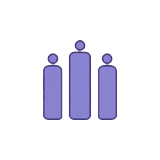
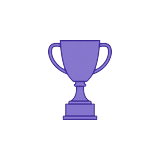
feat(art): ui_icon_rank 改奖杯语义，收口 80px 目检 (WXG-T-491)
T-488 第 3 项目检结论：旧件在 80px 下读作「三个人并排站」，不读作排行榜；

且实物形态与其台账记述「领奖台三台阶」不符。用户 2026-10-29 裁 A：改奖杯。

生成：云 qwen-image-3.0 seed101 一张（0.18 元；本地 ComfyUI 探活拒绝）。

切图沿用 T-488 口径：四角 floodfill thresh24 取外部背景 ∪ 近白补封闭孔（杯把内圈）

→ alpha MinFilter(3) 内退 1px 去白边 → bbox 裁 → 长边归一 50% → 落 160² → LANCZOS。

读数（160² @2x）：占宽 40% / 占高 50% / 不透明 2678 / 主色 #8070C0 + 描边 #5040A0

（旧件 46% / 50% / 4127）。奖杯天然窄高 ⇒ 占宽为全族最窄。

真渲染目检（?hud=off + headless Chrome DPR2）：6x 放大无白边残留，

四枚真尺寸并排 齿轮(灰)/奖杯(紫)/信封(蓝)/喇叭(橙) 语义互不混淆。

效果图两张改为真渲染取证（原 mock 记的是旧形态，留着会误导）。

.meta 由编辑器 reimport 自动重写（trimX 48 / trimY 40 / 64x80），非手编。

验证：check:cocos-mask OK（字节相同、已进包）；check:size beads 3430.4 KB。

单测 1414 通过 / 1 红（arc-ticket-gate S-4）——归因他人 7a4ecda9 的开机定位改动，

非本笔（本笔零 src）。

Changed region(s): [[0.25, 0.25, 0.75, 0.75]]

diff --git a/production/TASKS.md b/production/TASKS.md
@@ -2,7 +2,7 @@
 
 > **格式（WXG-T-064 起）：标题制 + 详情分片。** 本表**只留标题**（名称列 ≤ 60 字符，由 `pnpm run check:tasks` 机械强制）；任务正文在 `production/TASKS-DETAIL.md` 的 `## WXG-T-0NN` 小节。**读取协议**：领号/看状态只读本表（≈ 2.2k tok）；要某任务详情时，从 `ctx/index.json` 取该小节的 `startLine`/`endLine`，`read_file(path, offset, limit)` **只读那一节**（中位 ≈ 290 tok），**不要整读详情文件**。归档时**行与小节成对搬走**。
 > 单号递增不回收。任何会话（WorkBuddy/Cursor/Qoder/CodeBuddy）开工前**先读本文件领号**，完成后回填状态——根治跨 IDE 撞号（教训：2026-09-12 CodeBuddy 独立会话撞用 T-013/T-014）。
-> **领号（机械校准锚，供 `pnpm run tasks:archive` 校准用）**：当前已分配至 **WXG-T-490**，下一可用号 **WXG-T-491**（**沿革已外移**：每个已分配号的批次摘要、冲突披露与 ADR 编号表 → `production/archive/TASKS-ledger-notes.md`，2026-10-28 由 WXG-T-482 原文照搬迁出；动机 = 该段占台账 39,909 tok 而 `tasks:archive` 只搬表行、对它零效力 ⇒ 台账撞 80k 门。⛔ 日常领号只认本行数值，**不要**去读那份沿革）。
+> **领号（机械校准锚，供 `pnpm run tasks:archive` 校准用）**：当前已分配至 **WXG-T-491**，下一可用号 **WXG-T-492**（**沿革已外移**：每个已分配号的批次摘要、冲突披露与 ADR 编号表 → `production/archive/TASKS-ledger-notes.md`，2026-10-28 由 WXG-T-482 原文照搬迁出；动机 = 该段占台账 39,909 tok 而 `tasks:archive` 只搬表行、对它零效力 ⇒ 台账撞 80k 门。⛔ 日常领号只认本行数值，**不要**去读那份沿革）。
 > 勘误（2026-09-13）：本注此前长期停在「已分配至 T-032」而表内已排到 T-035，曾致撞号（教训见 memory 记录）；WXG-T-040 归档落地后改为——**领号认本注（下一可用号），本注由 `tasks:archive` 校准**为「主表 ∪ 归档全局最大号 + 1」（归档会把老行移出主表，只看主表最大号必重号）；手工领号后请顺手核对本注（可运行 `pnpm run tasks:archive` 校准，0 行时不落盘）。
 > **用过号未自登主表清单**（K-137 只披露不代填）：222 / 257 / 280·281 / 282 / 283 / 285 / 286·287 / 289 （291 已由 WXG-T-292 代收口自登；203–207 属区间披露）——逐条正文与补账口径见 `production/archive/TASKS-ledger-notes.md` §A 末段。⛔ 仍不代填，待各会话自登。
 
@@ -57,6 +57,7 @@
 | WXG-T-488 | 生成 ui_icon_rank 图标资源与效果图（云 qwen-image-3.0） | 主理人(CodeBuddy)·治理轨 | ✅ **完成（2026-10-28）**（解 T-487 的 P1「好友榜钮无图标」。云 `qwen-image-3.0` × 2 seed：v1 seed101 领奖台三台阶（中高左右递减、圆点嵌顶面作名次位）定稿，v2 seed202 纯平面三竖条因左右等高+圆点分离「像三人」弃用。切图口径 = 白底 floodfill thresh24 → `MinFilter(3)` 边缘内退 1px 去白边（⛔ 不用 MaxFilter，会把白像素拉进 alpha）→ bbox 裁 → **长边归一 50%** → 落 160×160。成品占宽 46%/占高 50%、不透明 4127 px（对照 mail 3810 / sound 3098 / settings 2129），紫色 `#7C6FD9` + 深紫描边，与既有三枚语义色策略一致。产出：`final/assets/menu/ui_icon_rank.png` + `cocos/assets/textures/ui_icon_rank.png` + 效果图 ×2 + 1024 源图。**成本 0.36 元**（2 × 0.18）。**收口（2026-10-29）**：`.meta` 由编辑器导入生成（uuid `b01fa1bb-…`，L1 合规），`MENU_TEXTURES.iconRank` + `drawTopbar` 80² blit + 两宿主表（carrier `BITMAP_ASSETS` / harness `MENU_FILE`）接线完成；`check:cocos-mask` OK（`ui_icon_rank` 已进包、字节相同）、`check:size` 3430.3 KB、单测 1413 绿。仅剩真机 80px 目检） | 见详情 |
 | WXG-T-489 | harness 加 `?hud=off` 让出左上顶栏（遮挡收口） | 主理人(CodeBuddy)·治理轨 | ✅ **完成（2026-10-29）**（解用户「启动时候为什么设置面板盖在主界面」：那块深色板 = harness 调试层 `#hud`+`#controls`，**非游戏 UI、不进 Cocos 产物/微信包**；因 T-486/T-487 把设置钮挪到左上 x=24 而面板定位从未随迁 —— `#controls` 实占 x 10..270 × y 56..180，与设置钮 bbox (28..108 × 119..199) 相交约八成，且 T-113 只关了 `pointer-events` ⇒ **点得着但看不见**。新增 `body.hud-off` CSS + `?hud=off`（或 `0` / `false`）开关，默认行为不变；两档截图对照 + `harness:smoke` 双游戏通过） | 见详情 |
 | WXG-T-490 | 主菜单橱窗启动定位 + 主钮浏览态文案（甲+A） | 主理人(Qoder)·工程轨 | ✅ **完成（2026-10-29）**（用户 2026-10-29 裁「甲 + A」；兼 T-334 真机报障「默认图」残留半边闭账） | 见详情 |
+| WXG-T-491 | ui_icon_rank 改奖杯语义（80px 目检收口） | 主理人(CodeBuddy)·治理轨 | ✅ **完成（2026-10-29）**（T-488 目检读作「三个人并排站」⇒ 用户裁 **A 改奖杯**。云 `qwen-image-3.0` seed101 一张 **0.18 元**（本地 ComfyUI 探活拒绝）；切图沿用 T-488 口径（`MinFilter(3)` 内退 1px 去白边）。读数：占宽 40% / 占高 50% / 不透明 2678 / 主色 `#8070C0` + 描边 `#5040A0`（旧件 46/50/4127）；真渲染 80px 下清晰读作奖杯、四枚四色不混；效果图两张改为**真渲染**取证（原 mock 记的是旧形态）。`.meta` 由编辑器 reimport 重写 trim 64×80（L1 合规）。⚠ 同批 `arc-ticket-gate` S-4 一红，归因他人 `7a4ecda9`） | 见详情 |
 > 注 1：T-016/T-017 的产出实际由 CodeBuddy 侧会话完成（用户授权路径），本台账为跨 IDE 统一追认。
 > 注 2（第二次撞号追认）：CodeBuddy 会话后续又将 CI/CD 与 ADR-0009 误编为 016/017，已按 T-021/T-022 归位；其提交信息与任务单内嵌旧号不回改，以本台账为准。
 > 注 3：多会话并行时领号纪律——开工前读本文件取「下一可用号」并立即回填占位，完成后再更新状态行。

diff --git a/ctx/hot-files.md b/ctx/hot-files.md
@@ -25,9 +25,9 @@
 
 §wechatgame 项目长期笔记=1+81 · §日志蒸馏规程（R2 · WXG-T-0…=7+6 · §项目约定=13+22 · §常用脚本=35+11 · §SubAgent=46+4 · §Rules=50+3 · §Hooks=53+7 · §Headless / CI=60+8 · §已知限制=68+14
 
-## `production/TASKS.md` — 98 行 / 19038 tok / 实测读 4 次
+## `production/TASKS.md` — 99 行 / 19265 tok / 实测读 4 次
 
-§WXG 任务台账（SSOT）=1+99 · §待排（backlog，无号，立项时领取…=71+29
+§WXG 任务台账（SSOT）=1+100 · §待排（backlog，无号，立项时领取…=72+29
 
 ## `production/qa/beads/test-cases.md` — 63 行 / 3722 tok / 实测读 15 次
 
@@ -103,10 +103,10 @@
 §knowledge/ — 工作室知识库…=1+313 · §1 读取协议（开发前期）=7+10 · §2 写入协议（任务收尾）=17+28 · §3 文件分工=45+10 · §4 维护=55+12 · §5 生命周期（访问记账 → 归档 → …=67+41 · §6 活跃条目（自动生成）=108+206
 > 本表只列 7 / 11 节：其余 4 节 → ctx/index.json（按 path 取 `sections[].anchor` / `startLine`，勿整读）。
 
-## `production/TASKS-DETAIL.md` — 4013 行 / 130450 tok
+## `production/TASKS-DETAIL.md` — 4074 行 / 131586 tok
 
-§WXG 任务台账 · 详情（标题制正文…=1+4014 · §WXG-T-484=3115+43 · §WXG-T-479=3439+31 · §WXG-T-480=3470+30 · §WXG-T-481=3500+21 · §WXG-T-482=3588+54 · §WXG-T-483=3642+58 · §WXG-T-485=3700+60 · §WXG-T-486=3760+46 · §WXG-T-487=3806+57 · §WXG-T-488=3863+77 · §WXG-T-489=3940+43 · §WXG-T-490=3983+32
-> 本表只列 13 / 273 节：其余 260 节 → ctx/index.json（按 path 取 `sections[].anchor` / `startLine`，勿整读）。
+§WXG 任务台账 · 详情（标题制正文…=1+4075 · §WXG-T-484=3115+43 · §WXG-T-480=3470+30 · §WXG-T-481=3500+21 · §WXG-T-482=3588+54 · §WXG-T-483=3642+58 · §WXG-T-485=3700+60 · §WXG-T-486=3760+46 · §WXG-T-487=3806+57 · §WXG-T-488=3863+77 · §WXG-T-489=3940+43 · §WXG-T-490=3983+32 · §WXG-T-491=4015+61
+> 本表只列 13 / 281 节：其余 268 节 → ctx/index.json（按 path 取 `sections[].anchor` / `startLine`，勿整读）。
 
 ## `games/breakout/design/concept.md` — 143 行 / 3113 tok / 实测读 217 次
 

diff --git a/ctx/BUDGET.md b/ctx/BUDGET.md
@@ -23,7 +23,7 @@
 | # | 文件 | tokens | 行数 | tier |
 |---:|---|---:|---:|:--:|
 | 1 | `games/beads/design/gdd/powerups-v2.md` | 144877 | 2328 | normal |
-| 2 | `production/TASKS-DETAIL.md` | 130450 | 4013 | normal |
+| 2 | `production/TASKS-DETAIL.md` | 131586 | 4074 | normal |
 | 3 | `games/beads/design/art/specs/assets-spec.md` | 121738 | 2109 | normal |
 | 4 | `production/qa/beads/g4-regression-report.md` | 86807 | 2201 | normal |
 | 5 | `games/beads/design/gdd/systems-index-changelog.md` | 52773 | 108 | normal |
@@ -41,7 +41,7 @@
 | 17 | `games/beads/design/proposals/star-economy-and-retention.md` | 22195 | 763 | normal |
 | 18 | `games/beads/design/gdd/input-control.md` | 19665 | 206 | normal |
 | 19 | `knowledge/CHANGELOG.md` | 19468 | 611 | normal |
-| 20 | `production/TASKS.md` | 19038 | 98 | hot |
+| 20 | `production/TASKS.md` | 19265 | 99 | hot |
 
 ## 3. 超限清单（超过所属类别上限）
 
